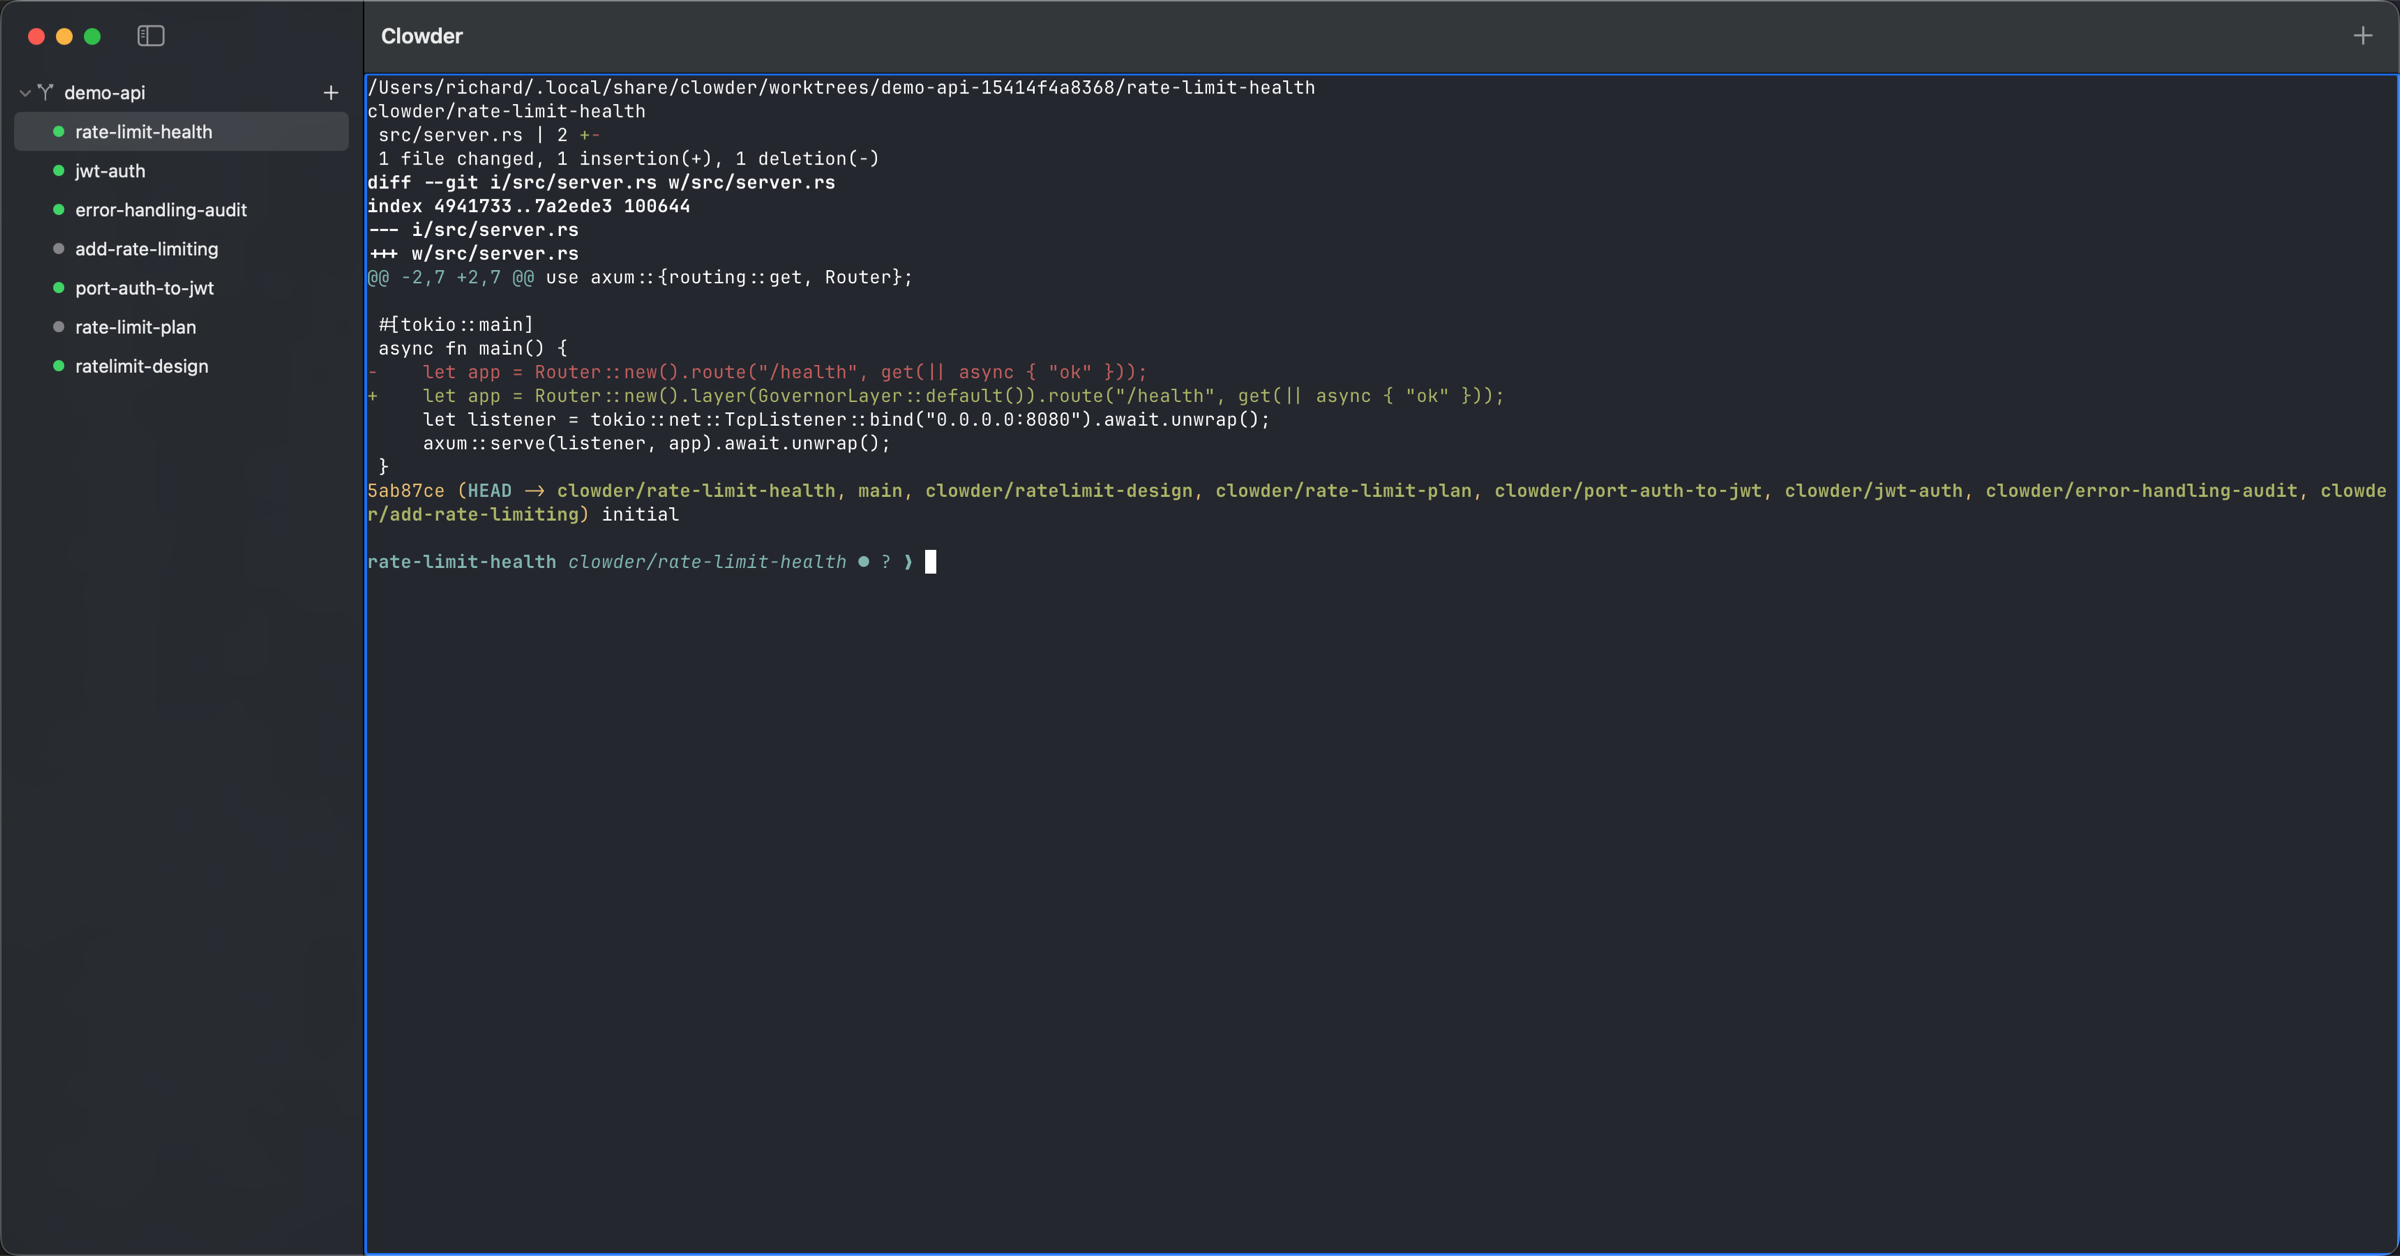
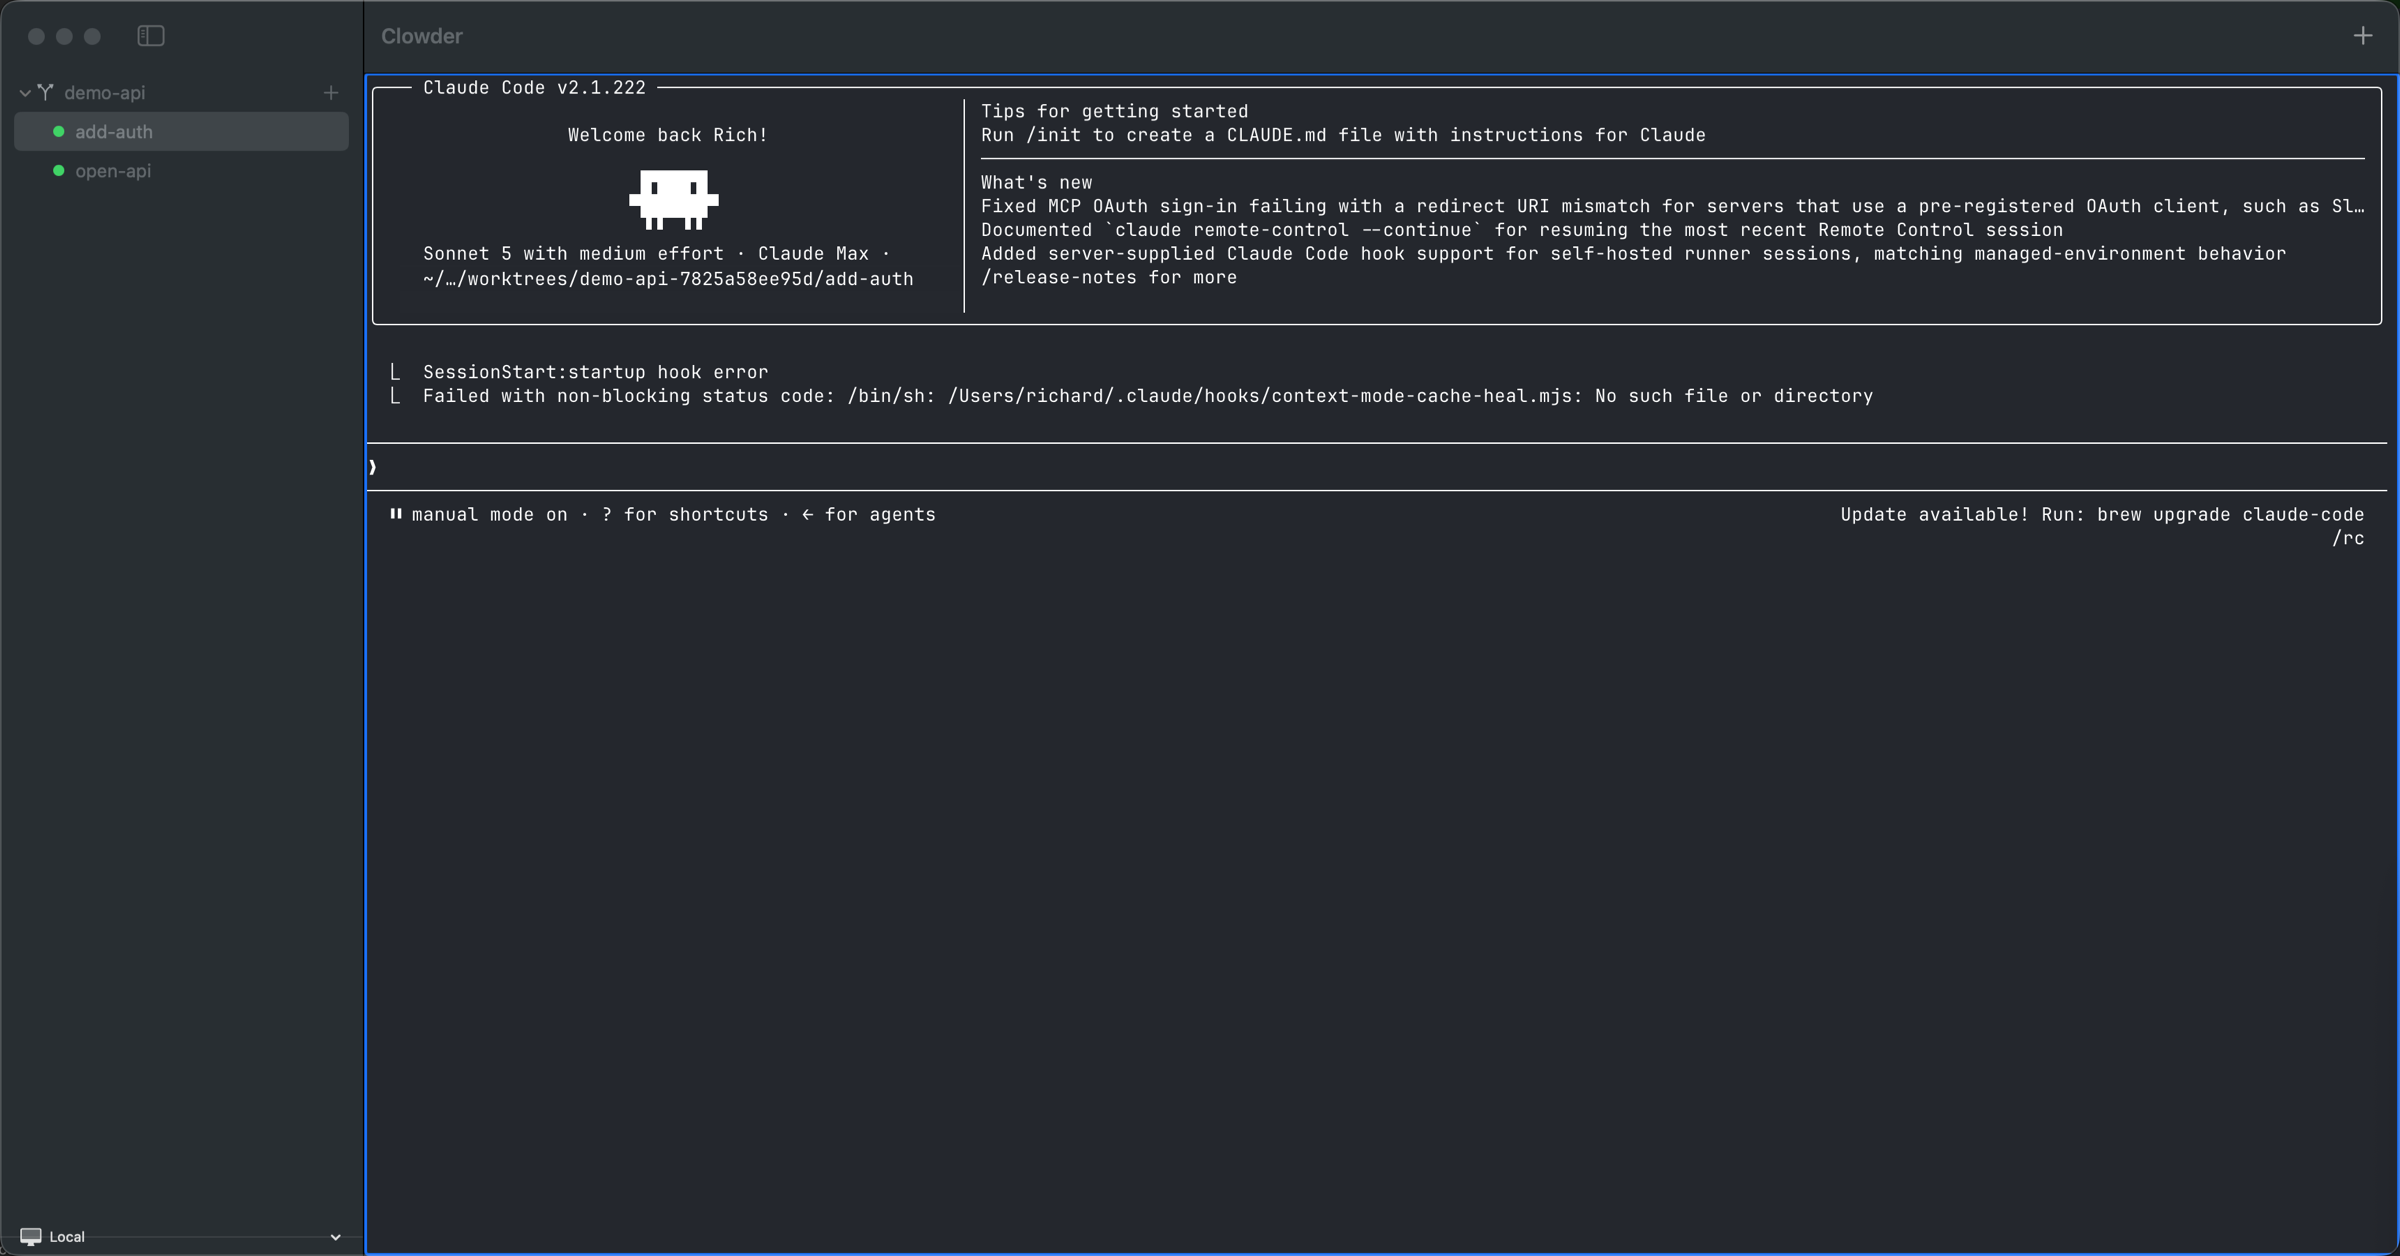
docs(site): refresh the screenshots for 0.7.0
Captured against 0.7.0 — the previous set was 0.5.0, two releases stale,
on the most visually prominent part of the page.

The Claude Code welcome banner rendered the signed-in account's email in
all three captures, which is exactly the hazard site/README.md warns
about and the reason it now recommends a `shell` pane over a `claude`
one. The banner's organisation line has been removed and the worktree
line closed up behind it, so the banner reads as it would for an account
with no org rather than showing an edit.

The palette capture needed a different fill: the command palette dims
what is behind it, so the banner background there is (28,30,35) rather
than (37,40,46), and filling with the undimmed colour left a visibly
lighter band.

Claude-Session: https://claude.ai/code/session_014mvvqwZQJiCVahGX4kq4MA

diff --git a/site/README.md b/site/README.md
@@ -54,7 +54,7 @@ must be set to **GitHub Actions** for the first deploy to publish.
 
 ## Screenshots
 
-`src/assets/screenshots/` holds real captures of Clowder 0.5.0, rendered by
+`src/assets/screenshots/` holds real captures of Clowder 0.7.0, rendered by
 `src/components/AppShot.astro` through Astro's asset pipeline (hashed, WebP, responsive `srcset`,
 base path handled automatically).
 
